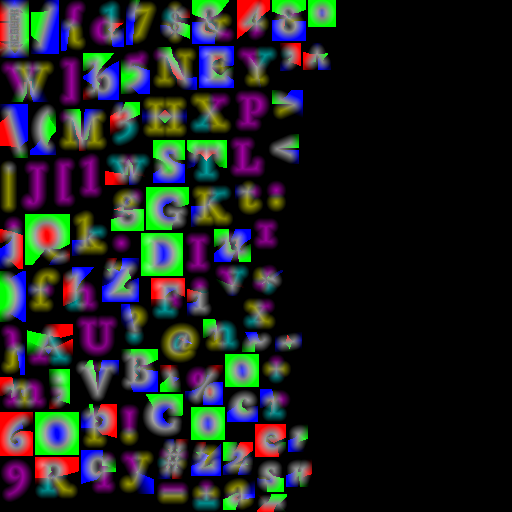
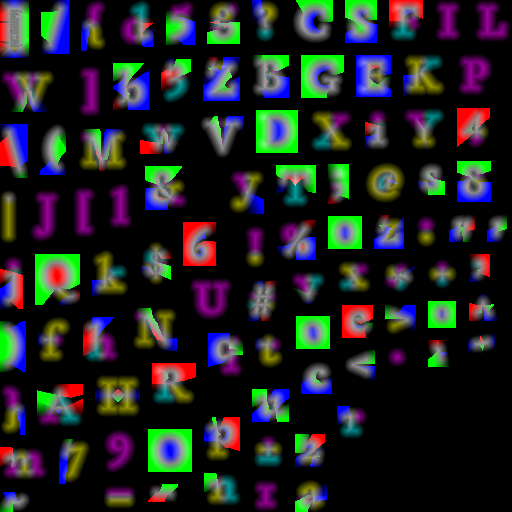
fix(labels): widen atlas padding so glow doesn't bleed into neighbours
texturePadding was 2 — fine for the prior 4-pixel SDF range but way
too tight after the bump to distanceRange=16.  Any glow extent past
~5 atlas px sampled into the next glyph's pixels, surfacing as
recognisable letter fragments around the halo at glowEmFrac > 0.13.

Bump padding to 12, the max that keeps the atlas in a single 512x512
page.  The resulting cap is glowEmFrac <= 0.28 (~12 atlas px), which
comfortably covers the 0.15-0.25 "soft halo" target range.  Clamp
the slider to match so the UI can't dial past the safe zone.

diff --git a/src/components/DebugPanel/LabelEffectsSection.tsx b/src/components/DebugPanel/LabelEffectsSection.tsx
@@ -24,9 +24,11 @@
  * - `outlineEmFrac` slider: 0 to 0.2.  Beyond 0.2 the outline starts
  *   eating into adjacent labels at typical em sizes; 0.05–0.1 is the
  *   readable sweet spot.
- * - `glowEmFrac` slider: 0 to 0.5.  Glow can extend further than the
- *   outline before becoming visually noisy; 0.15–0.3 is the typical
- *   "soft halo behind the text" range.
+ * - `glowEmFrac` slider: 0 to 0.28.  The upper bound is set by the
+ *   atlas's inter-glyph padding (12 px at ATLAS_FONT_SIZE=42 ⇒ 0.286
+ *   em-fraction); sampling past it bleeds into the neighbouring
+ *   glyph's pixels.  0.15–0.25 is the typical "soft halo behind the
+ *   text" range, comfortably inside the cap.
  *
  * ## Why `useEffect` and not a render-time setter call
  *
@@ -124,7 +126,7 @@ export function LabelEffectsSection(): ReactElement {
         </label>
         <label style={labelStyle}>
           <span style={{ width: 70 }}>Glow rad</span>
-          <input type="range" min={0} max={0.5} step={0.005} value={glowEmFrac} onChange={(e) => setGlowEmFrac(parseFloat(e.target.value))} />
+          <input type="range" min={0} max={0.28} step={0.005} value={glowEmFrac} onChange={(e) => setGlowEmFrac(parseFloat(e.target.value))} />
           <span style={{ width: 40 }}>{glowEmFrac.toFixed(3)}</span>
         </label>
       </div>

diff --git a/tools/fonts/buildFontAtlas.ts b/tools/fonts/buildFontAtlas.ts
@@ -61,7 +61,14 @@ const OUTPUT_DIR = 'public/fonts';
 const SHARED_OPTIONS = {
   outputType: 'json',
   textureSize: [ATLAS_PX, ATLAS_PX],
-  texturePadding: 2,
+  // Inter-glyph spacing in the atlas, in pixels.  Must be large enough
+  // that a fragment sampling a UV offset outward from a glyph for the
+  // outline+glow falloff never lands in a NEIGHBOURING glyph's pixels.
+  // Worst case at runtime is `glowEmFrac_max * ATLAS_FONT_SIZE`
+  // atlas pixels (LabelEffectsSection caps glowEmFrac at 0.5; with
+  // ATLAS_FONT_SIZE = 42 the worst-case extent is 21 px).  22 leaves
+  // a 1-px safety margin without inflating glyph cells excessively.
+  texturePadding: 12,
   distanceRange: DISTANCE_RANGE_PX,
   fieldType: 'msdf',
   fontSize: ATLAS_FONT_SIZE,
